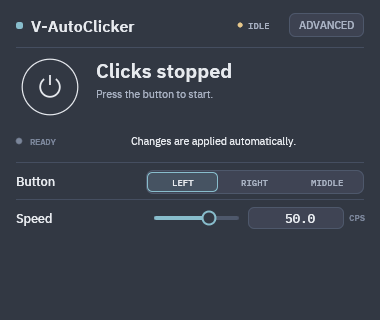
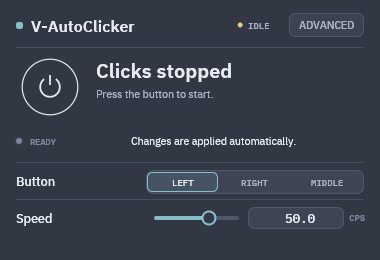
Release 0.7.1: tighten window heights

diff --git a/src/gui/app.rs b/src/gui/app.rs
@@ -26,10 +26,17 @@ const STATUS_STALE_AFTER: Duration = Duration::from_secs(3);
 const WORKER_RESTART_COOLDOWN: Duration = Duration::from_secs(10);
 const START_GUARD: Duration = Duration::from_millis(1500);
 const CONTENT_WIDTH: f32 = 424.0;
+// Windows has no daemon footer, so the advanced layout can be shorter there.
+#[cfg(windows)]
+const WINDOW_SIZE: [f32; 2] = [460.0, 520.0];
+#[cfg(not(windows))]
 const WINDOW_SIZE: [f32; 2] = [460.0, 560.0];
+#[cfg(windows)]
+const MIN_WINDOW_SIZE: [f32; 2] = [420.0, 480.0];
+#[cfg(not(windows))]
 const MIN_WINDOW_SIZE: [f32; 2] = [420.0, 520.0];
-const SIMPLE_WINDOW_SIZE: [f32; 2] = [380.0, 320.0];
-const SIMPLE_MIN_WINDOW_SIZE: [f32; 2] = [360.0, 300.0];
+const SIMPLE_WINDOW_SIZE: [f32; 2] = [380.0, 260.0];
+const SIMPLE_MIN_WINDOW_SIZE: [f32; 2] = [360.0, 250.0];
 const LABEL_WIDTH: f32 = 124.0;
 const MIN_AUTO_SCALE: f32 = 0.75;
 const MAX_AUTO_SCALE: f32 = 1.0;
@@ -2830,32 +2837,38 @@ fn settings_equivalent(left: &Settings, right: &Settings) -> bool {
 mod tests {
     use super::*;
 
-    fn scale(monitor: Vec2) -> f32 {
-        auto_scale_for(monitor, 1.0, WINDOW_SIZE)
+    fn scale(monitor: Vec2, window: [f32; 2]) -> f32 {
+        auto_scale_for(monitor, 1.0, window)
     }
 
     #[test]
     fn automatic_scale_fits_the_screen() {
-        assert!((scale(Vec2::new(1920.0, 1080.0)) - 1.0).abs() < 0.001);
-        assert!((scale(Vec2::new(1366.0, 768.0)) - 1.0).abs() < 0.001);
-        assert!((scale(Vec2::new(1092.0, 614.0)) - 0.925).abs() < 0.001);
-        assert!((scale(Vec2::new(910.0, 512.0)) - 0.75).abs() < 0.001);
+        let advanced = [460.0, 560.0];
+        assert!((scale(Vec2::new(1920.0, 1080.0), advanced) - 1.0).abs() < 0.001);
+        assert!((scale(Vec2::new(1366.0, 768.0), advanced) - 1.0).abs() < 0.001);
+        assert!((scale(Vec2::new(1092.0, 614.0), advanced) - 0.925).abs() < 0.001);
+        assert!((scale(Vec2::new(910.0, 512.0), advanced) - 0.75).abs() < 0.001);
+
+        // The shorter Windows layout needs less zoom on the same screen.
+        let compact = [460.0, 520.0];
+        assert!((scale(Vec2::new(1092.0, 614.0), compact) - 0.996).abs() < 0.001);
+        assert!((scale(Vec2::new(910.0, 512.0), compact) - 0.8).abs() < 0.001);
     }
 
     #[test]
     fn automatic_scale_is_stable_after_zooming() {
         let unscaled = Vec2::new(910.0, 512.0);
         let first = auto_scale_for(unscaled, 1.0, WINDOW_SIZE);
-        assert!((first - 0.75).abs() < 0.001);
+        assert!((MIN_AUTO_SCALE..=MAX_AUTO_SCALE).contains(&first));
 
-        // At 75% zoom the viewport reports the monitor in smaller points.
+        // At the applied zoom the viewport reports the monitor in smaller points.
         let reported = unscaled / first;
         assert!((auto_scale_for(reported, first, WINDOW_SIZE) - first).abs() < 0.001);
     }
 
     #[test]
     fn simple_window_uses_its_own_scale() {
-        let monitor = Vec2::new(500.0, 400.0);
-        assert!((auto_scale_for(monitor, 1.0, SIMPLE_WINDOW_SIZE) - 0.95).abs() < 0.001);
+        let monitor = Vec2::new(400.0, 330.0);
+        assert!((auto_scale_for(monitor, 1.0, SIMPLE_WINDOW_SIZE) - 0.9).abs() < 0.001);
     }
 }

diff --git a/.github/release-notes/v0.7.1.md b/.github/release-notes/v0.7.1.md
@@ -1,0 +1,50 @@
+## V-AutoClicker 0.7.1
+
+### English
+
+A small layout fix for the 0.7.0 release.
+
+- **Simple layout is shorter**: the window is now 380×260 instead of 380×320,
+  which removes the empty strip below the CPS slider.
+- **Advanced layout is shorter on Windows**: 460×520 instead of 460×560. Linux
+  keeps 460×560 because the daemon footer uses that space.
+- The minimum window sizes were adjusted to match, and the automatic DPI
+  scaling accounts for the new dimensions.
+- **niri/Wayland**: a tiling compositor decides the window size, so the compact
+  size only applies to floating windows. The README now shows a window rule
+  that opens the GUI floating.
+
+No behavior or configuration changes; existing `gui.toml` files keep working.
+
+**Downloads**
+
+- `v-autoclicker-windows-x86_64.zip` - Windows 10/11, x86_64.
+- `v-autoclicker-linux-x86_64.tar.gz` - Linux x86_64 (Wayland and X11).
+
+Both archives contain the binary, `README.md` and `FONT-LICENSE.txt`.
+
+---
+
+### Русский
+
+Небольшая правка вёрстки к релизу 0.7.0.
+
+- **Простой режим стал ниже**: окно теперь 380×260 вместо 380×320, пустая
+  полоса под слайдером CPS убрана.
+- **Расширенный режим стал ниже на Windows**: 460×520 вместо 460×560. На Linux
+  остаётся 460×560, потому что это место занимает футер демона.
+- Минимальные размеры окна приведены в соответствие, автоматическое
+  масштабирование под DPI учитывает новые размеры.
+- **niri/Wayland**: размер окна определяет тайловый компоновщик, поэтому
+  компактный размер действует только для плавающих окон. В README добавлено
+  правило, открывающее GUI плавающим.
+
+Поведение и формат конфигурации не меняются; существующие `gui.toml`
+продолжают работать.
+
+**Файлы для скачивания**
+
+- `v-autoclicker-windows-x86_64.zip` - Windows 10/11, x86_64.
+- `v-autoclicker-linux-x86_64.tar.gz` - Linux x86_64 (Wayland и X11).
+
+В обоих архивах: бинарник, `README.md` и `FONT-LICENSE.txt`.

diff --git a/README.md b/README.md
@@ -204,6 +204,18 @@ saved in `gui.toml`.
 
 Settings apply live, including while clicking.
 
+The window opens at 380×260 in Simple and 460×520 in Advanced (460×560 on
+Linux, where the daemon footer takes the extra row). A tiling compositor may
+override this: on **niri** the GUI is tiled by default, so the compact size only
+applies when the window floats. To keep it at the designed size, add:
+
+```kdl
+window-rule {
+    match app-id="v-autoclicker"
+    open-floating true
+}
+```
+
 Available themes:
 
 | Light | Dark |
